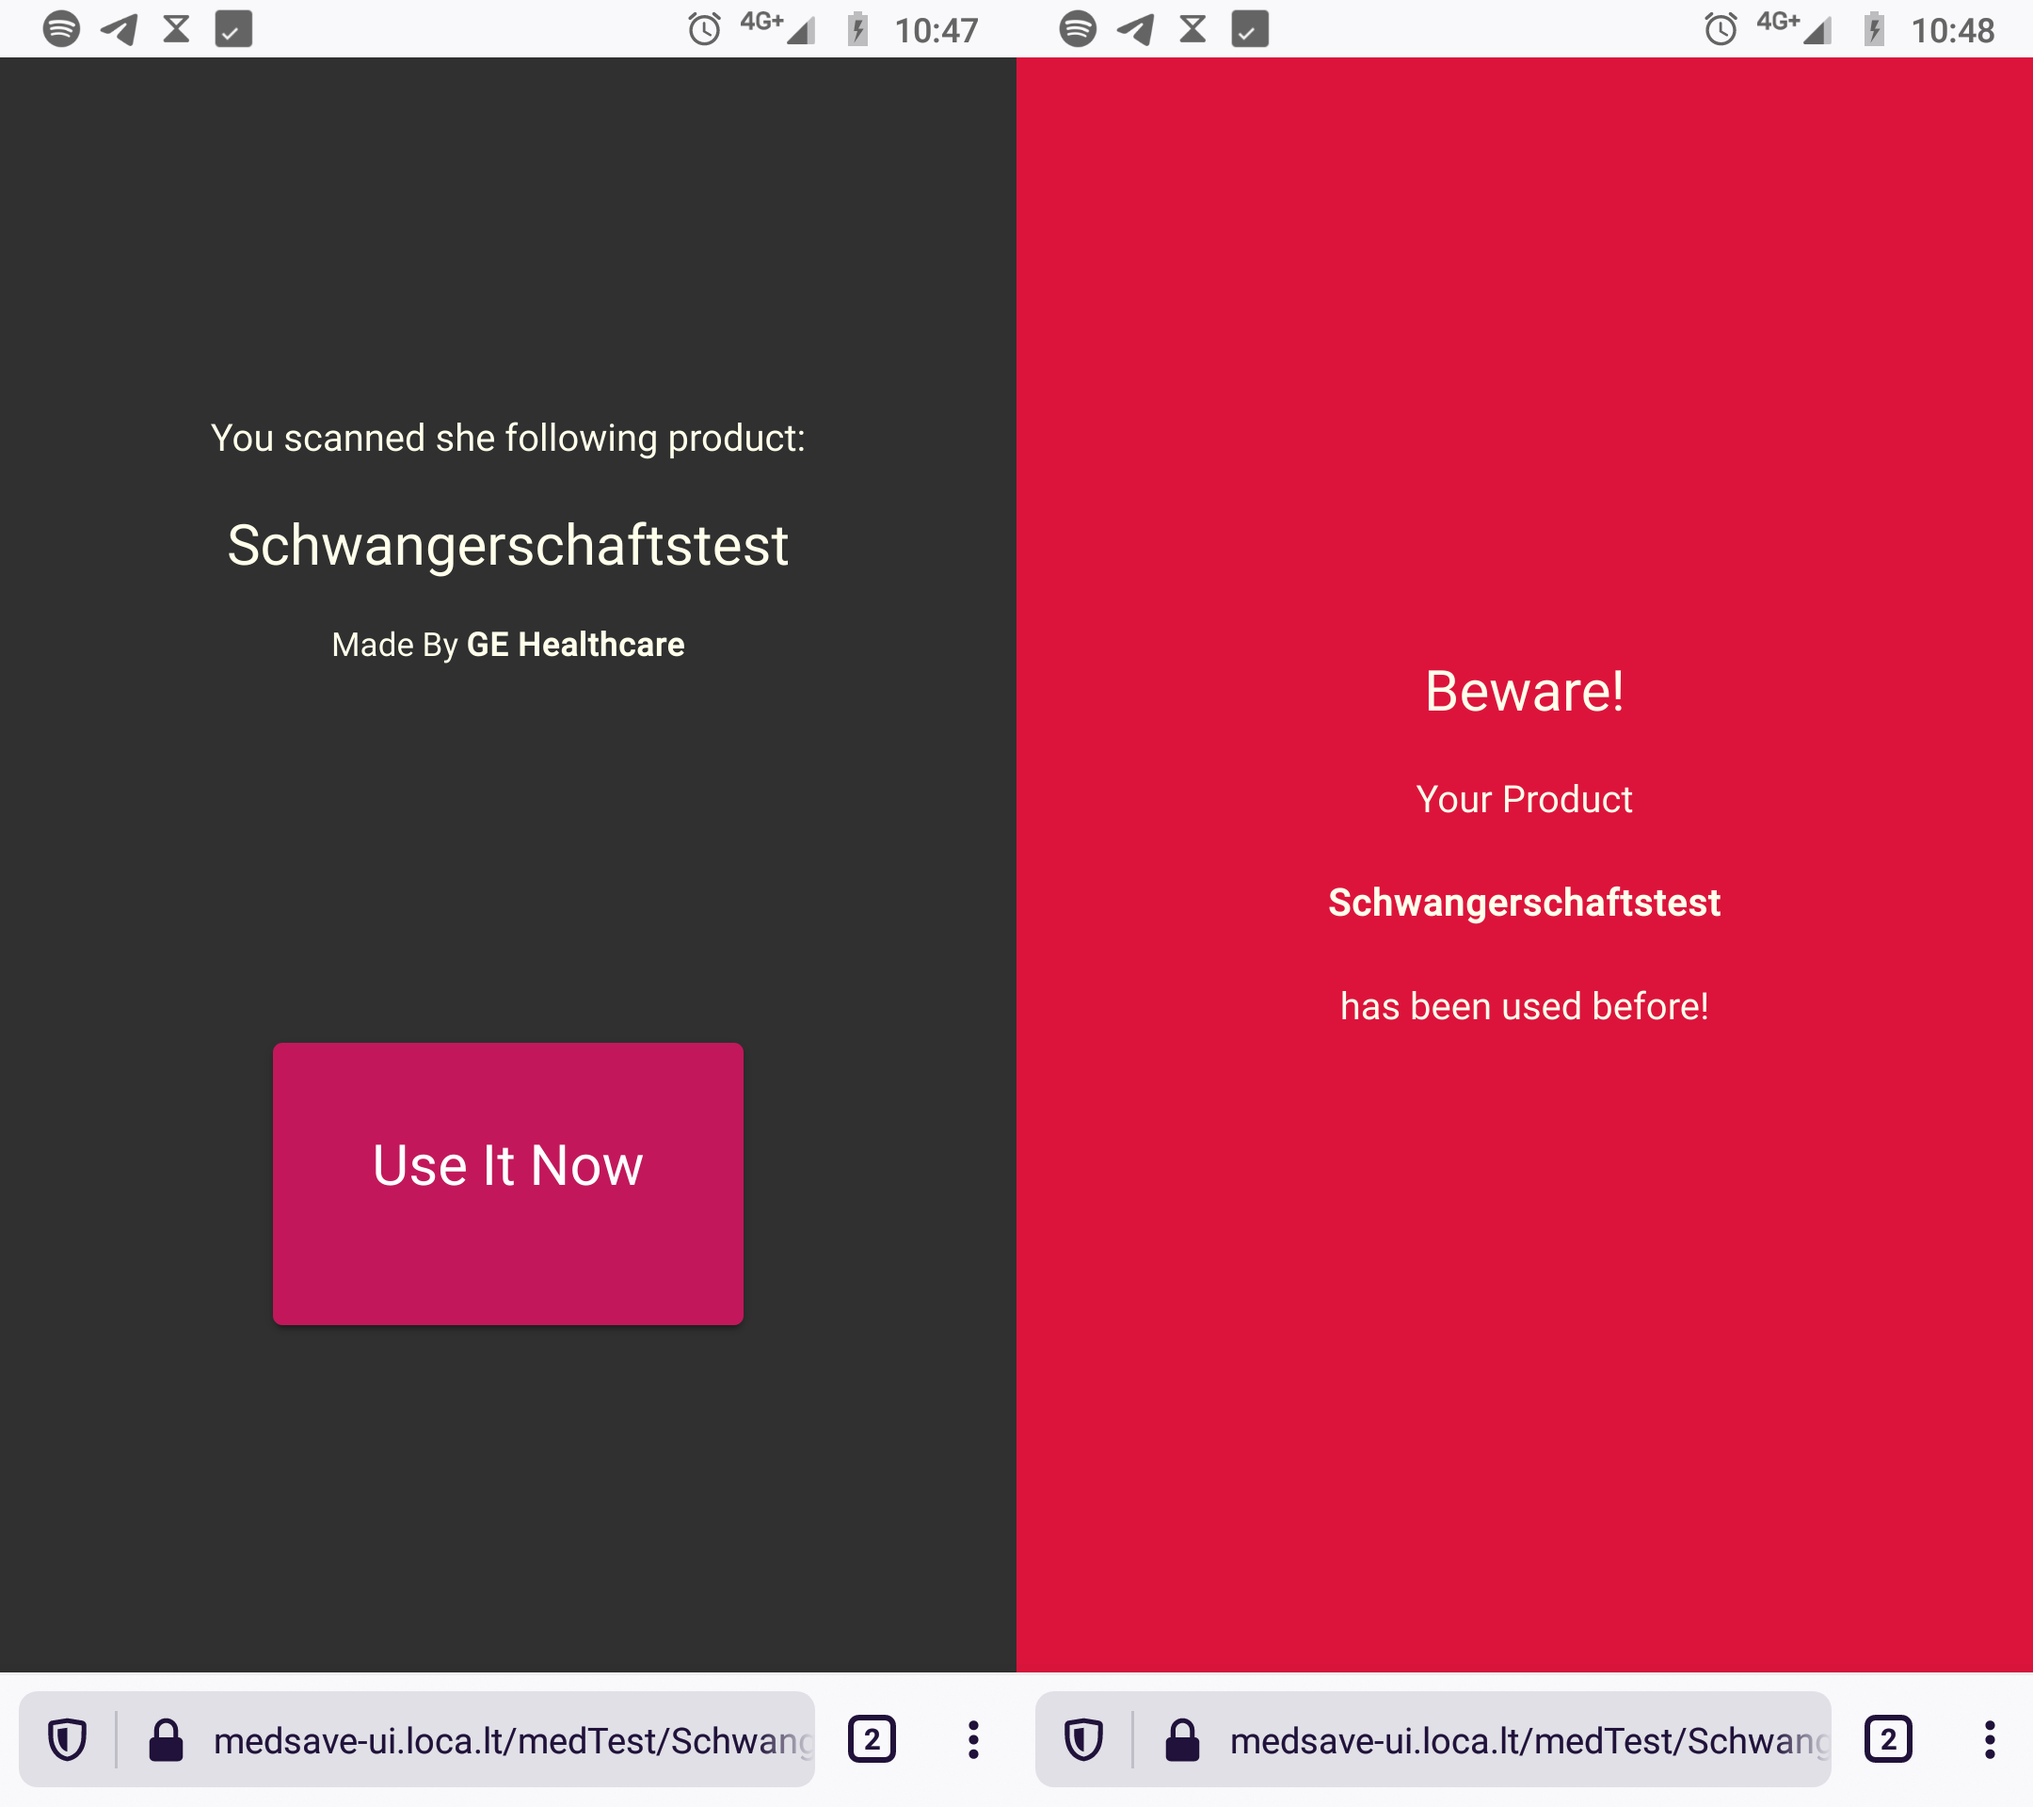
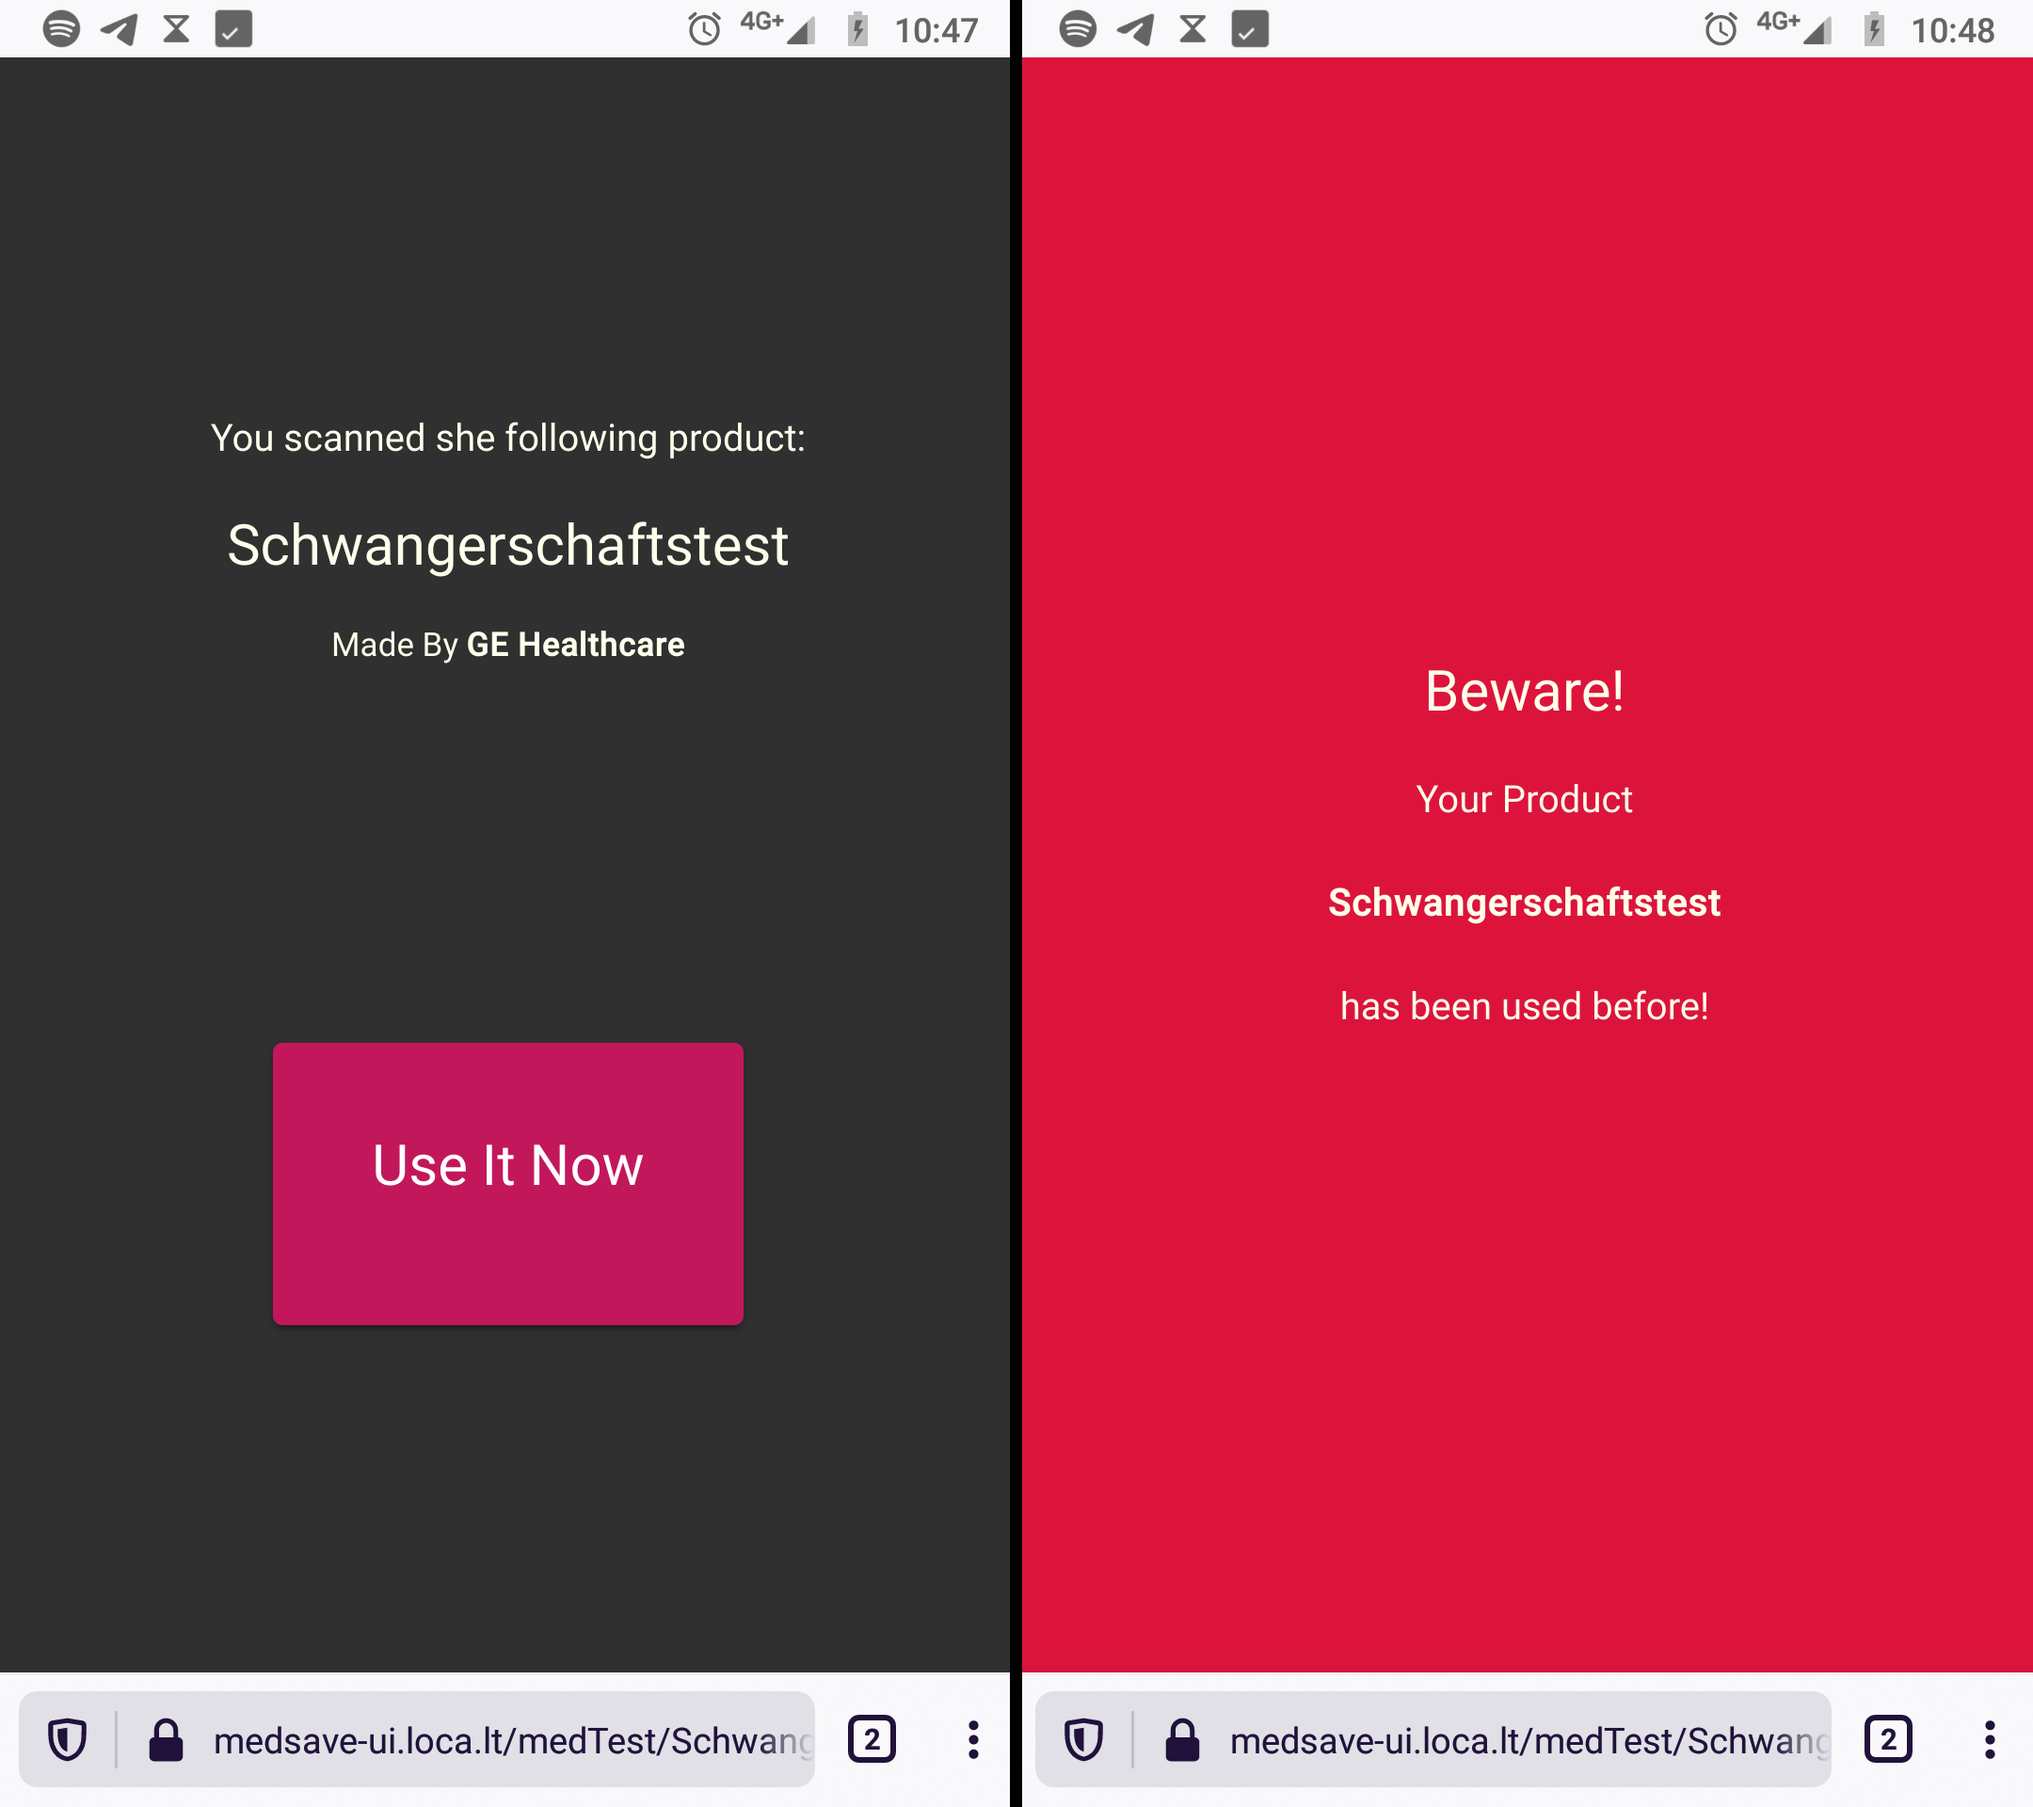
update readme and medsave-ui graphic

Changed region(s): [[0.4963, 0.0, 0.5273, 1.0]]

diff --git a/README.md b/README.md
@@ -9,19 +9,30 @@ The application allows permitted organisations to associate each produced unit o
 Each produced unit is then provided with a NFC-chip that can be scanned by the consumer, to authenticate a product and to check wether it was already used or not.
 
 
-
 ## 1. Project Structure
+
+<p align="center">
+  <img src="graphics/medsave-architcture.png" width="400">
+</p>
 
 The project consists of the following components:
 
-- the MedNET
-- the MedNET-CRUD UI
-- the MedSAVE UI
+- MedNET
+- MedNET-CRUD UI
+- MedSAVE UI
 
+The underlying concept is to create the *MedNET*, a blockchain and a REST-API, so permitted organisations can create MedSavior-profiles for their co-workers and define the model for their MTSD via the *MedNET Portal*.
+Users with a MedSavior-profile shall then be able to create product instances by using the *MedSAVE App*, and write their URL on an MedSAVE-chip (NFC).
+Afterwards, this chip is put on the packing as a seal.
+When consumers receives the MTSD, they can use the *MedSAVE UI* to scan the packing with their smartphone and to verify the authenticity by comparing the provided product information with the packing.
+An additional feature is to mark the MTSD as used.
+
+This project consists of a prototype of the MedNET, the MedNET portal, and the MedSAVE UI.
 
 ### 1.1. MedNET
 
 This component consists of an implementation of the Hyperledger Fabric Blockchain v2.2 and a Node.js Express backend.
+
 
 #### 1.1.1. Blockchain
 The project's underlying blockchain was forked from [Hyperledger Fabric repository](https://github.com/hyperledger/fabric) on January 22nd 2021.
@@ -50,3 +61,71 @@ The blockchain allows permitted organisations to create, read, update, and delet
 
 By using the backend, permitted organisations can execute these CRUD operations via HTTPS.
 The endpoint ``/api/medTests`` allows fetching all created tests via a GET operation and the endpoint ``/api/medTest/:key`` allows creating, updating, fetching, and deleting a MedTest with its respective key.
+Each access to MedTests through this backend are logged as a transaction in the blockchain.
+
+### 1.2. MedNET Admin
+
+MedNET Admin is a dashboard that accesses the MedNET REST API and allows admins in organisations to list all their available MedTests, and to create, delete and update individual instances.
+
+<p align="center">
+  <img src="graphics/medsave-crud-ui.png" width="1200">
+</p>
+
+The provided functions are:
+
+
+(1) create a new test,
+
+(2) update the view,
+
+(3) modify a MedTest instance,
+
+(4) delete a MedTest instace.
+
+### 1.3. MedSAVE UI
+
+<p align="center">
+  <img src="graphics/medsave-ui.png" width="600">
+</p>
+
+The MedSAVE UI is a web page that accesses the MedNET REST API.
+After scanning a MedSAVE-chip, consumers are redirected to this web page that displays information about a MedTest unit.
+In addition consumers can mark a MTDS as used, by pressing the provided button.
+If the test isn't marked as used, the consumer sees a page similar to the left hand side of the image.
+If it **is** marked as used, the consumer is redirected to the page like on the right hand side.
+
+
+## 2. Setup project
+
+The following instructions are executed on an 64-bit Ubuntu 20 LTS.
+Pre-requisits:
+In order to execute the following bash script successfully you need to install the following programs
+- git
+- docker
+- docker-compose
+
+Make sure the current user can run docker by running this command:
+
+```bash
+docker run hello-world
+```
+
+If you have no permission to run this command, although docker is installed, follow the instructions [here](https://docs.docker.com/engine/install/linux-postinstall/).
+
+***NOTE:***
+the containing bash scripts expose the MedNET-backend and the MedSAVE UI via ngrok.
+
+Checkout this project:
+```bash
+git clone https://github.com/locojoetive/mednet.git
+````
+
+Enter the project folder:
+```bash
+cd mednet
+```
+
+Execute the following bash script:
+```bash
+./0_start_bc_and_be.sh
+```
